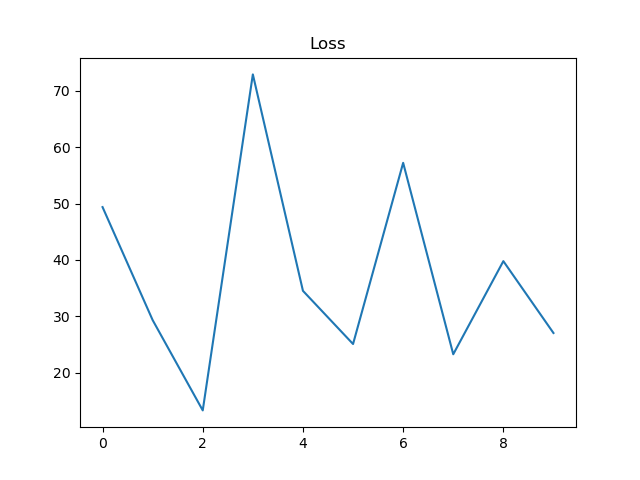
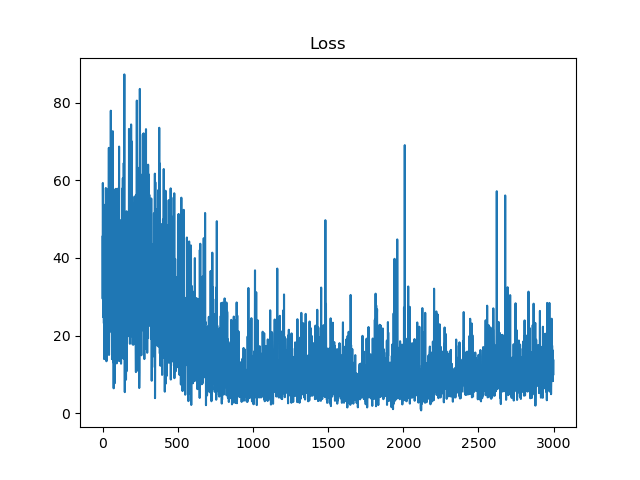
+2

diff --git a/src/main.py b/src/main.py
@@ -17,11 +17,11 @@ def simple_game():
 
     print("Simple game starting...")
     N_parallel = 1
-    N_episode = 10
+    N_episode = 3000
     episode_steps = 20
     obs_dim = 2
     n_actions = 2
-    hidden_dim = 1280
+    hidden_dim = 16
     trainer_args = dict(value_loss_coef=1, actor_loss_coef=1, entropy_coef=1e-4, learning_rate=8e-4)
     ac = MlpACManual(obs_dim, n_actions, hidden_dim, cpu=False); trainer = A2C(ac, **trainer_args)
     # ac = MlpACTorch(obs_dim, n_actions, hidden_dim); trainer = A2CTorch(ac, **trainer_args_th)
